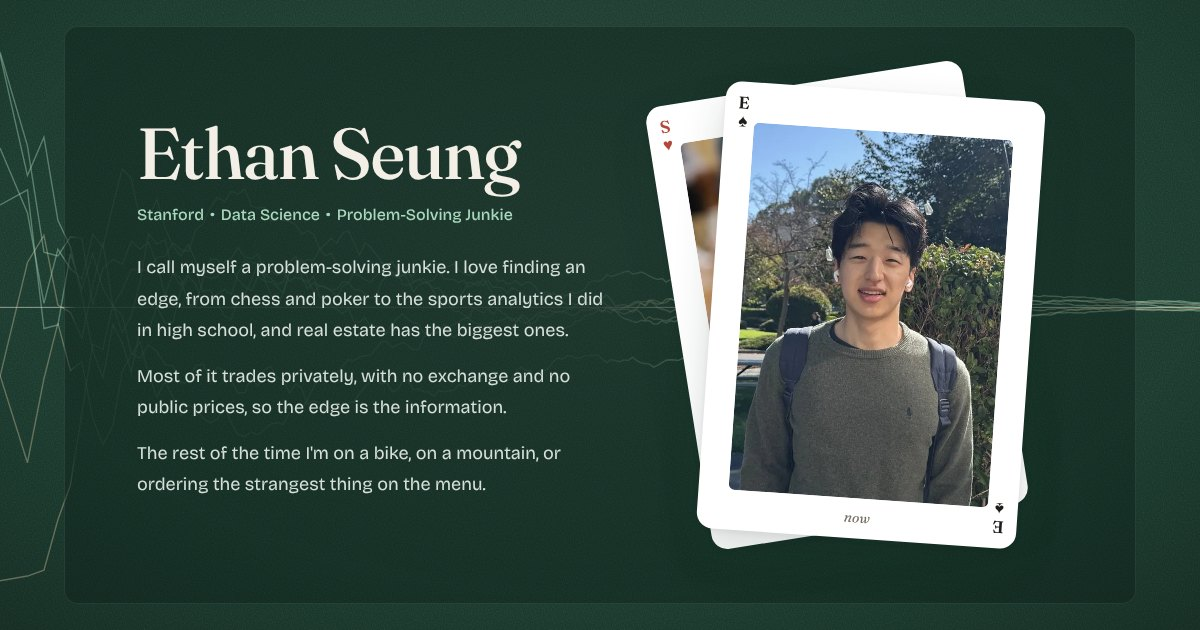
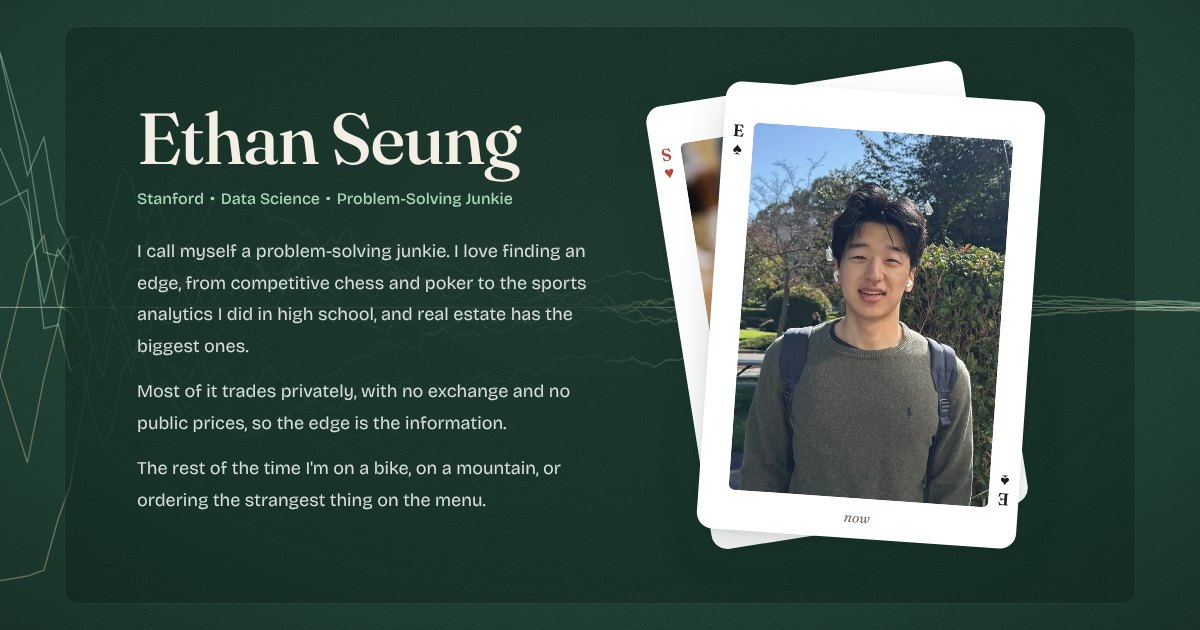
Copy: competitive chess (Home intro, Work story, link preview image)
Claude-Session: https://claude.ai/code/session_0148TJ44pWukpMajrKD23MHK

diff --git a/js/data.js b/js/data.js
@@ -18,7 +18,7 @@ window.SITE = {
 
   /* ---------------- ABOUT ---------------- */
   intro: [
-    "I call myself a problem-solving junkie. I love finding an edge, from chess and poker to the sports analytics I did in high school, and real estate has the biggest ones.",
+    "I call myself a problem-solving junkie. I love finding an edge, from competitive chess and poker to the sports analytics I did in high school, and real estate has the biggest ones.",
     "Most of it trades privately, with no exchange and no public prices, so the edge is the information.",
     "The rest of the time I'm on a bike, on a mountain, or ordering the strangest thing on the menu.",
   ],
@@ -100,7 +100,7 @@ window.SITE = {
   ],
   // ---- Work page: the story + one card per stop. `learned` is my own one-line takeaway (optional).
   work: {
-    story: "It started at the chess board and the poker table, where the edge is knowing something the other side doesn't. I chased that into sports analytics, then AI, then real estate, where prices and deal terms are mostly private and the edge is the information. Next stop: Tishman Speyer.",
+    story: "It started with competitive chess and poker, where the edge is knowing something the other side doesn't. I chased that into sports analytics, then AI, then real estate, where prices and deal terms are mostly private and the edge is the information. Next stop: Tishman Speyer.",
     cards: [
       { id: "acore", date: "Summer 2026", short: "ACORE", tag: "Real estate credit", company: "ACORE Capital", logo: "acorecapital.com", logoPad: true, role: "Summer Analyst", when: "2026",
         stat: "57 deals", statLabel: "~$8B underwritten · 11 quoted",

diff --git a/index.html b/index.html
@@ -25,7 +25,7 @@
   <link rel="preconnect" href="https://fonts.googleapis.com" />
   <link rel="preconnect" href="https://fonts.gstatic.com" crossorigin />
   <link href="https://fonts.googleapis.com/css2?family=Fraunces:ital,opsz,wght@0,9..144,400;0,9..144,500;0,9..144,600;1,9..144,400&family=Bricolage+Grotesque:opsz,wght@12..96,400;12..96,500;12..96,600;12..96,700&display=swap" rel="stylesheet" />
-  <link rel="stylesheet" href="css/style.css?v=20261124g" />
+  <link rel="stylesheet" href="css/style.css?v=20261124h" />
 </head>
 <body>
   <header class="nav">
@@ -59,8 +59,8 @@
 
   <script>window.va = window.va || function () { (window.vaq = window.vaq || []).push(arguments); };</script>
   <script defer src="/_vercel/insights/script.js"></script>
-  <script src="js/data.js?v=20261124g"></script>
-  <script src="js/photo-sizes.js?v=20261124g"></script>
-  <script src="js/app.js?v=20261124g"></script>
+  <script src="js/data.js?v=20261124h"></script>
+  <script src="js/photo-sizes.js?v=20261124h"></script>
+  <script src="js/app.js?v=20261124h"></script>
 </body>
 </html>
